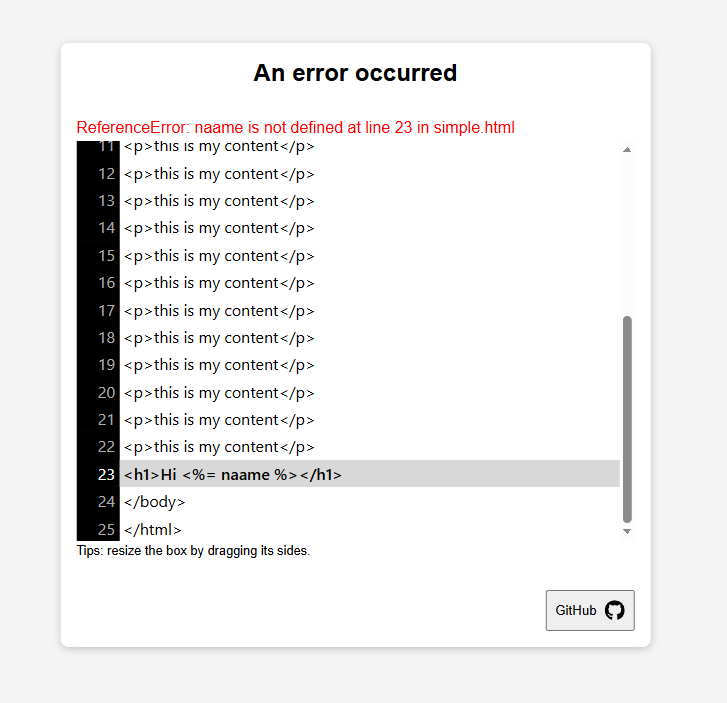
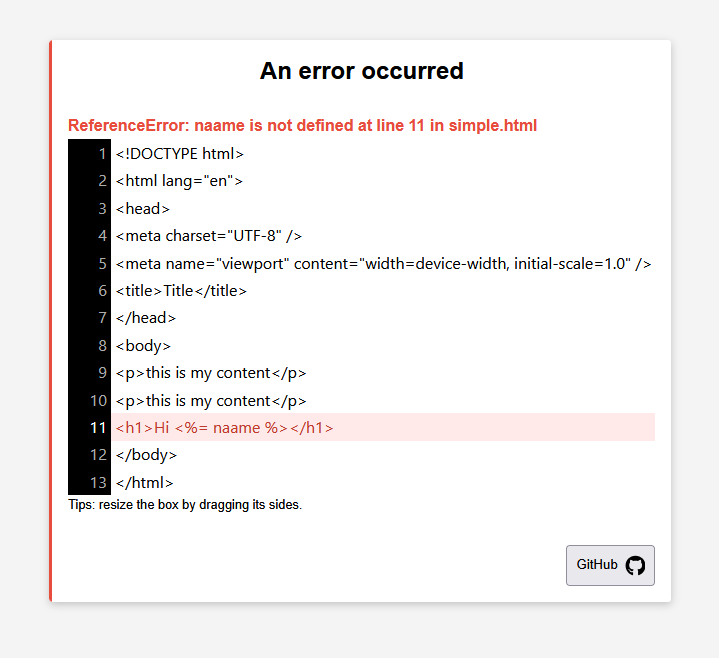
logging

Changed region(s): [[0.0612, 0.0608, 0.9179, 0.9119], [0.0918, 0.8207, 0.9179, 0.9422], [0.3366, 0.0912, 0.6426, 0.1216]]

diff --git a/src/metrics.ts b/src/metrics.ts
@@ -10,7 +10,7 @@ function includeRenderTime(metrics: boolean, isAChild: boolean) {
 function includeChildTemplatesCount(metrics: boolean, isAChild: boolean) {
   if (!metrics || isAChild) return '';
 
-  return `const ɵɵchildTemplates = this.childCopy`;
+  return `const ɵɵchildTemplates = this.childCopy;`;
 }
 
 function isAChildTemplate(templateName: string, childTemplates: string[]) {
@@ -46,15 +46,13 @@ function includeMetrics(metricsData: Metrics) {
 }
 
 function includeDynamicalDefinedTemplate(templateLoaded: string[]) {
-  const dynamicalTemplateNumber = templateLoaded.length;
-  if (dynamicalTemplateNumber === 0) return '""';
-
-  const dynamicalTemplate = `DYNAMIC TEMPLATE${dynamicalTemplateNumber > 1 ? 'S' : ''}`;
-
-  return `console.log(${setTitleStyle(
-    dynamicalTemplate,
-    dynamicalTemplateNumber
-  )});console.table(${JSON.stringify(templateLoaded)});`;
+  // const dynamicalTemplateNumber = templateLoaded.length;
+  // if (dynamicalTemplateNumber === 0) return '""';
+  // const dynamicalTemplate = `DYNAMIC TEMPLATE${dynamicalTemplateNumber > 1 ? 'S' : ''}`;
+  // return `console.log(${setTitleStyle(
+  //   dynamicalTemplate,
+  //   dynamicalTemplateNumber
+  // )});console.table(${JSON.stringify(templateLoaded)});`;
 }
 
 function logMappedTemplates(templates: string[]) {
@@ -62,7 +60,7 @@ function logMappedTemplates(templates: string[]) {
     .map((tpl, i) => `console.log("%c#${i + 1} %c${tpl}", "color: #888", "color: #87cefa");`)
     .join('');
 
-  return `console.group("%cMAPPED TEMPLATES ${templates.length}", "color: #00ffcc; font-weight: bold");${logs}console.groupEnd();`;
+  return `console.group("%cMAPPED TEMPLATES (${templates.length})", "color: #00ffcc; font-weight: bold");${logs}console.groupEnd();`;
 }
 
 function logCache(cacheEnabled: boolean) {
@@ -80,7 +78,7 @@ function logRendered(template: string) {
 }
 
 function logChildTemplatesCount() {
-  return `console.log("%c[CHILDREN]%c    ' + ɵɵchildTemplates.join(', ') + ' (' + ɵɵchildTemplates.length + ')' + '", "color:#66ccff;font-weight:bold",${getNormalStyle()})`;
+  return `console.log("%c[CHILDREN]%c   ' + ɵɵchildTemplates.join(', ') + ' (' + ɵɵchildTemplates.length + ')' + '", "color:#66ccff;font-weight:bold",${getNormalStyle()})`;
 }
 
 function logCacheHit() {
@@ -102,22 +100,12 @@ function getFileNameAndAbsPath(files: string[]) {
   return templatesPathWithDirectory;
 }
 
-function setTitleStyle(title: string, value: any = '') {
-  return `"%c[${title}]%c: ${value}", ${getTitleStyle()}, ${getNormalStyle()}`;
-}
-
-function getTitleStyle() {
-  return `"color: white; background: green; padding: 2px; font-weight: bold;"`;
-}
-
 function getNormalStyle() {
   return `"color:white"`;
 }
 
 export {
   getFileNameAndAbsPath,
-  setTitleStyle,
-  getTitleStyle,
   getNormalStyle,
   includeMetrics,
   includeRenderTime,

diff --git a/src/public/error.css b/src/public/error.css
@@ -19,7 +19,7 @@ body {
   left: 50%;
   transform: translate(-50%, -50%);
   padding: 1rem;
-  border-radius: 0.5rem;
+  border-radius: 0.2rem;
   box-shadow: 0 2px 8px rgba(0, 0, 0, 0.2);
   background: #fff;
   min-width: 300px;
@@ -34,11 +34,17 @@ body {
 }
 
 .error-message .general {
-  color: red;
+  font-weight: bold;
+  font-size: 1rem;
+  color: #e74c3c;
 }
 
 .error-message .line {
   font-size: 0.9rem;
+}
+
+.error-container {
+  border-left: 3px solid #e74c3c;
 }
 
 .error-container .content {
@@ -87,7 +93,11 @@ body {
   width: 100%;
 }
 .error-line {
-  background: #d8d8d8;
+  background: #ffe9e9;
+  color: #c0392b;
+}
+.error-line-container:hover {
+  background-color: #f1f1f1;
 }
 
 .github {
@@ -128,8 +138,7 @@ a {
 }
 .resize-handle.left:hover,
 .resize-handle.right:hover {
-  background-color: #72bdff47;
-  transition: 0.4s background-color;
+  background-color: rgba(192, 192, 192, 0.479);
 }
 .resize-handle.left {
   left: -3px;

diff --git a/src/const.ts b/src/const.ts
@@ -1,4 +1,4 @@
-const DEFAULT_EXTENSION = 'eta';
+const DEFAULT_EXTENSION = 'html';
 const DEFAULT_OPENING = '<%';
 const DEFAULT_CLOSING = '%>';
 const DEFAULT_EXEC = '';

diff --git a/src/templates/simple.html b/src/templates/simple.html
@@ -11,6 +11,5 @@
     <p>this is my content</p>
 
     <h1>Hi <%= name %></h1>
-    <%~ include('include page') %>
   </body>
 </html>
